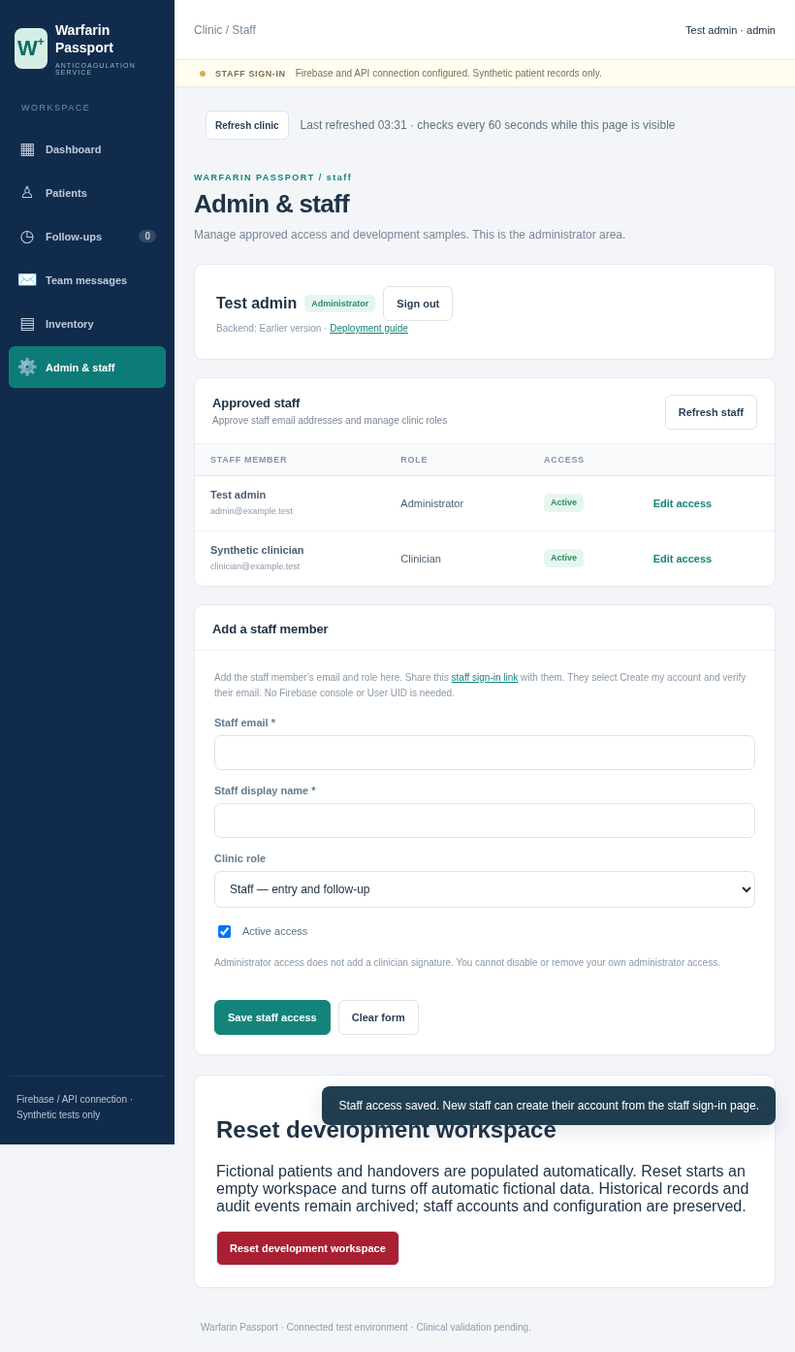
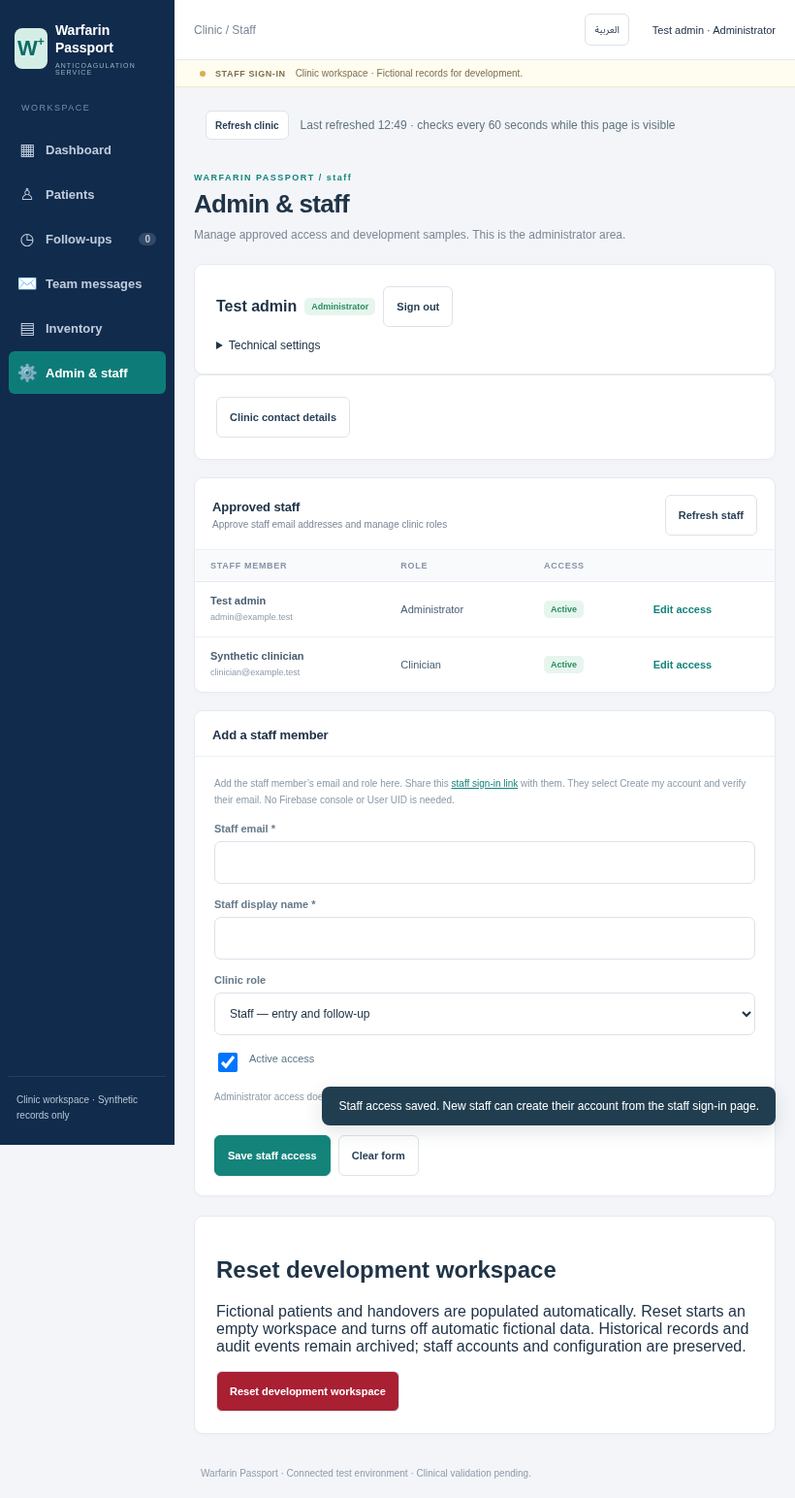
Add standalone login and verified staff access requests with in-app approval

diff --git a/app.js b/app.js
@@ -6,7 +6,7 @@ import {urgentCases,urgentCase} from './urgent-cases.mjs?v=care-5';
 import {additionalPatients,mergeAdditionalPatients} from './additional-cases.mjs?v=care-5';
 import {ttrForPatient,clinicTTR} from './ttr.mjs';
 import {doseReview,UW_SOURCE,ACF_SOURCE} from './dose-review.mjs?v=care-5';
-import {connectionAvailable, connected, createStaffAccount, sendAccountEmail, signIn, signOut, api, patientFromApi} from './api-client.mjs?v=care-5';
+import {connectionAvailable, connected, createStaffAccount, sendAccountEmail, refreshAccess, resendMyVerification, signIn, signOut, api, patientFromApi} from './api-client.mjs?v=care-5';
 import {doseSummary, followupAttempt} from './clinical-utils.mjs';
 import {addDays, todayRiyadh, dateLabel, ageFromDOB, sumDose} from './date-utils.mjs';
 
@@ -141,15 +141,19 @@ function pageFollowups(){const q=worklist();return `${heading('Follow-up worklis
  <section class="card"><div class="table-wrap"><table><thead><tr><th>Patient</th><th>MRN</th><th>INR check</th><th>Call date</th><th>Last contact</th><th>Status</th><th>Action</th></tr></thead><tbody>${q.map(f=>`<tr><td class="strong">${e(f.name)}${riskBadge(f)}</td><td>${e(f.mrn)}</td><td>${dateLabel(f.inrDate)}</td><td>${dateLabel(f.callDate)}</td><td>${e(f.lastContact?.outcome||'None logged')}</td><td>${tag(f.callDate<TODAY?'Overdue':f.callDate===TODAY?'Due today':'Scheduled',f.callDate<TODAY?'overdue':'due')}</td><td><button class="btn sm" data-followup-open="${e(f.mrn)}|${e(f.id)}">Open Patient</button></td></tr>`).join('')}</tbody></table></div>${!q.length?'<div class="empty">No pending follow-ups.</div>':''}</section><div class="warning-box">The 2-day rule is for routine administrative calls only. A clinically urgent INR or bleeding concern requires prompt review according to an approved clinic protocol.</div>`}
 function pageInventory(){return `${heading('Warfarin inventory','Patient-reported tablet stock by strength. Estimates are not physical counts.')}
  <section class="card"><div class="table-wrap"><table><thead><tr><th>Patient</th><th>MRN</th><th>Tablet strength</th><th>Quantity</th><th>Checked</th><th></th></tr></thead><tbody>${patients.flatMap(p=>(p.inventory||[]).map(it=>`<tr><td class="strong">${e(p.name)}</td><td>${e(p.mrn)}</td><td>${e(it.strength)} mg</td><td>${e(it.quantity)} tablets</td><td>${dateLabel(it.date)}</td><td><button class="btn sm" data-inventory-for="${e(p.mrn)}">Update</button></td></tr>`)).join('')}</tbody></table></div></section><div class="warning-box">Patient inventory is separate from any future clinic stock module. Do not assume medication has been taken solely because it was prescribed.</div>`}
-let approvedStaff=[],staffListLoaded=false,staffListError='',staffListBusy=false,staffDraft={uid:'',email:'',displayName:'',role:'subadmin',active:true};
+let staffRequests=[],approvedStaff=[],staffListLoaded=false,staffListError='',staffListBusy=false,staffDraft={uid:'',email:'',displayName:'',role:'subadmin',active:true};
 function roleLabel(role){return {admin:'Administrator',clinician:'Clinician',subadmin:'Staff'}[role]||role;}
-async function loadApprovedStaff(){if(!connected||staff?.role!=='admin'||staffListBusy)return;staffListBusy=true;try{approvedStaff=await api('users.list',{});staffListLoaded=true;staffListError='';}catch(err){staffListError=err.message;}finally{staffListBusy=false;if(view==='staff')render();}}
+async function loadApprovedStaff(){if(!connected||staff?.role!=='admin'||staffListBusy)return;staffListBusy=true;try{const result=await Promise.all([api('users.list',{}),api('staff.requests.list',{})]);approvedStaff=result[0];staffRequests=result[1];staffListLoaded=true;staffListError='';}catch(err){staffListError=err.message;}finally{staffListBusy=false;if(view==='staff')render();}}
+function clinicAccess(){return !!staff&&['admin','clinician','subadmin'].includes(staff.role);}
+function pageAccessStatus(){const pending=staff.role==='pending',verify=staff.role==='verify-email';return `<section class="login-layout"><div class="login-intro"><div class="login-brand"><span class="login-logo">W<sup>+</sup></span><span>Warfarin<br>Passport</span></div><h2>Clinic access, made simple.</h2></div><section class="card login-card"><h1>${pending?'Waiting for administrator approval':verify?'Verify your email':'Contact your administrator'}</h1><p><b>${e(staff.email)}</b></p><p>${pending?'Your email is verified. Your access request is now in the administrator’s staff page. Patient records stay locked until they approve your role.':verify?'Open the verification email, then select Check my access.':'Your clinic access is not active. Contact your administrator; you do not need to create another account.'}</p><p id="access-status" role="status"></p><div class="mini-actions"><button class="btn primary" id="check-access">Check my access</button>${verify?'<button class="btn" id="resend-my-verification">Resend verification email</button>':''}<button class="btn" id="sign-out">Sign out</button></div><div class="login-patient-link"><a href="./portal.html">Patient or caregiver? Open your passport →</a></div></section></section>`;}
+function staffRequestPanel(){return `<section class="card pad"><h2>Staff awaiting approval <span class="count-chip">${staffRequests.length}</span></h2><p>These people verified their email and requested clinic access. Confirm their identity and choose their role here.</p>${staffRequests.map(r=>`<form class="staff-request-form" data-request-id="${e(r.id)}"><b>${e(r.email)}</b><small>Requested ${dateLabel(r.requestedAt.slice(0,10))}</small><div class="form-grid">${field('displayName','Confirm staff name *','','text','required maxlength="120"')}${selectField('role','Clinic role',[['subadmin','Staff'],['clinician','Clinician'],['admin','Administrator']],'subadmin')}</div><label class="checkbox-line"><input type="checkbox" name="confirmIdentity" required> I confirmed this person’s identity and clinic role</label><p class="request-status" role="status"></p><div class="mini-actions"><button class="btn primary" type="submit">Approve access</button><button class="btn" type="button" data-reject-staff="${e(r.id)}">Decline request</button></div></form>`).join('')||'<p>No verified requests waiting. New staff appear here after verifying their email and signing in.</p>'}</section>`;}
+function pageLogin(){return `<section class="login-layout"><div class="login-intro"><div class="login-brand"><span class="login-logo">W<sup>+</sup></span><span>Warfarin<br>Passport</span></div><p class="eyebrow">ANTICOAGULATION SERVICE</p><h2>Your clinic, in one place.</h2><p>Review results, coordinate follow-up and share clear care plans with your patients.</p><div class="login-assurance">Authorized clinic access · Your role controls what you can see</div></div><section class="card login-card"><h1>Staff & administrator sign-in</h1><p class="login-subtitle">Welcome back. Sign in with your clinic account.</p><form id="login-form">${field('email','Staff email','','email','required autocomplete="username"')}${field('password','Password','','password','required autocomplete="current-password"')}<button class="login-show-password" type="button" id="login-show-password" aria-pressed="false">Show password</button><p id="login-error" role="alert" class="warning-box" hidden></p><button class="btn primary login-submit" type="submit">Sign in</button><p class="form-help">Administrators and staff use this same sign-in. Your approved role determines access.</p><div class="login-account-actions"><button class="btn" type="button" id="create-account">Create my account</button><button class="inline-action" type="button" id="reset-password">Reset password</button></div><details class="login-help"><summary>First time here?</summary><p>Create your account with a password of at least 12 characters, verify the email, then sign in to request clinic access. Your administrator approves the request inside this app.</p><button class="inline-action" type="button" id="verify-account">Resend verification email</button></details></form><div class="login-patient-link"><span>Patient or caregiver?</span><a href="./portal.html">Open your patient passport →</a></div><p class="login-development">Development workspace · Fictional records only</p></section></section>`;}
 function pageStaff(){
  if(!connected)return `${heading('Demo account','Demo mode has no administrator login. Use Staff sign-in for the connected database.')}<section class="card pad"><h2>Administrator and staff access</h2><p class="subtext">The same sign-in page is used for everyone. Your approved account role determines your access.</p><a class="btn primary" href="?mode=connected&view=staff">Staff / administrator sign-in</a></section>`;
- if(!staff)return `${heading('Staff & administrator sign-in','Sign in with your clinic account, or create your password after your administrator approves your email.')}<section class="card pad"><form id="login-form"><div class="form-grid">${field('email','Staff email','','email','required autocomplete="username"')}${field('password','Password','','password','required autocomplete="current-password"')}</div><p class="form-help">Administrators use this same login. There is no separate admin password. Access comes from the approved role in the clinic database.</p><p id="login-error" role="alert" class="warning-box" hidden></p><button class="btn primary">Sign in</button><a class="btn" href="./portal.html">Patient / caregiver sign-in</a><div class="mini-actions"><button class="btn" type="button" id="create-account">Create my account</button><button class="btn" type="button" id="verify-account">Resend verification email</button><button class="btn" type="button" id="reset-password">Reset password</button></div><p class="form-help">New staff: enter your approved email and a password of at least 12 characters, select Create my account, verify the email, then sign in. Creating an account alone does not grant clinic access.</p></form></section>`;
+ if(!staff)return pageLogin();
  const identity=`<section class="card pad"><div class="mini-actions"><b>${e(staff.displayName||staff.email)}</b>${tag(roleLabel(staff.role),'good')}<button class="btn" id="sign-out">Sign out</button></div>${staff.role==='admin'?`<details class="deployment-details"><summary>Technical settings</summary><p class="form-help">Backend: ${e(staff.backendRelease||'Earlier version')} · <a href="https://github.com/insaneCoro/Warfarin-Passport/blob/main/docs/AUTOMATED_DEPLOYMENT.md" target="_blank" rel="noopener">Deployment guide</a></p></details>`:''}</section>`;
  if(staff.role!=='admin')return `${heading('My account','You are signed into the connected clinic. Administrators manage staff access.')}${identity}`;
- return `${heading('Admin & staff','Manage approved access and development samples. This is the administrator area.')}${identity}<section class="card pad"><button class="btn" data-care-clinic>Clinic contact details</button></section><div class="admin-layout"><section class="card"><div class="card-header"><div><h2>Approved staff</h2><small>Approve staff email addresses and manage clinic roles</small></div><button class="btn" id="refresh-staff">Refresh staff</button></div>${staffListError?`<p class="warning-box">${e(staffListError)}</p>`:''}${staffListLoaded?`<div class="table-wrap"><table><thead><tr><th>Staff member</th><th>Role</th><th>Access</th><th></th></tr></thead><tbody>${approvedStaff.map(u=>`<tr><td><b>${e(u.displayName||u.email)}</b><small>${e(u.email)}</small>${String(u.uid).startsWith('invite:')?'<small>Awaiting verified account</small>':''}</td><td>${e(roleLabel(u.role))}</td><td>${tag(String(u.active).toLowerCase()==='true'?'Active':'Disabled',String(u.active).toLowerCase()==='true'?'good':'neutral')}</td><td><button class="inline-action" data-edit-staff="${e(u.uid)}">Edit access</button></td></tr>`).join('')}</tbody></table></div>`:'<div class="empty">Loading approved staff…</div>'}</section><section class="card"><div class="card-header"><h2>${staffDraft.uid?'Approve / update staff access':'Add a staff member'}</h2></div><form class="composer-body" id="staff-form"><p class="form-help">Add the staff member’s email and role here. Share this <a href="?mode=connected&view=staff">staff sign-in link</a> with them. They select Create my account and verify their email. No Firebase console or User UID is needed.</p><input name="uid" type="hidden" value="${e(staffDraft.uid)}">${field('email','Staff email *',staffDraft.email,'email','required')}${field('displayName','Staff display name *',staffDraft.displayName,'text','required maxlength="120"')}${selectField('role','Clinic role',[['subadmin','Staff — entry and follow-up'],['clinician','Clinician — clinical approval'],['admin','Administrator — accounts/settings']],staffDraft.role)}<label class="checkbox-line"><input name="active" type="checkbox" ${staffDraft.active?'checked':''}> Active access</label><p class="form-help">Administrator access does not add a clinician signature. You cannot disable or remove your own administrator access.</p><p id="staff-result" role="status" aria-live="polite"></p><div class="mini-actions"><button class="btn primary" type="submit">Save staff access</button><button class="btn" type="button" id="new-staff">Clear form</button></div></form></section></div><section class="card pad reset-card"><h2>Reset development workspace</h2><p>Fictional patients and handovers are populated automatically. Reset starts an empty workspace and turns off automatic fictional data. Historical records and audit events remain archived; staff accounts and configuration are preserved.</p>${workspaceError?`<p class="warning-box" role="alert">${e(workspaceError)}</p><button class="btn" id="retry-workspace">Retry preparation</button>`:''}${workspaceBusy?'<p role="status">Preparing fictional workspace…</p>':''}<button class="btn danger" id="reset-workspace" ${staff.workspaceMode==='empty'?'disabled':''}>Reset development workspace</button></section>`;
+ return `${heading('Admin & staff','Manage approved access and development samples. This is the administrator area.')}${identity}${staffRequestPanel()}<section class="card pad"><button class="btn" data-care-clinic>Clinic contact details</button></section><div class="admin-layout"><section class="card"><div class="card-header"><div><h2>Approved staff</h2><small>Approve staff email addresses and manage clinic roles</small></div><button class="btn" id="refresh-staff">Refresh staff</button></div>${staffListError?`<p class="warning-box">${e(staffListError)}</p>`:''}${staffListLoaded?`<div class="table-wrap"><table><thead><tr><th>Staff member</th><th>Role</th><th>Access</th><th></th></tr></thead><tbody>${approvedStaff.map(u=>`<tr><td><b>${e(u.displayName||u.email)}</b><small>${e(u.email)}</small>${String(u.uid).startsWith('invite:')?'<small>Awaiting verified account</small>':''}</td><td>${e(roleLabel(u.role))}</td><td>${tag(String(u.active).toLowerCase()==='true'?'Active':'Disabled',String(u.active).toLowerCase()==='true'?'good':'neutral')}</td><td><button class="inline-action" data-edit-staff="${e(u.uid)}">Edit access</button></td></tr>`).join('')}</tbody></table></div>`:'<div class="empty">Loading approved staff…</div>'}</section><section class="card"><div class="card-header"><h2>${staffDraft.uid?'Approve / update staff access':'Add a staff member'}</h2></div><form class="composer-body" id="staff-form"><p class="form-help">Add the staff member’s email and role here. Share this <a href="?mode=connected&view=staff">staff sign-in link</a> with them. They select Create my account and verify their email. No Firebase console or User UID is needed.</p><input name="uid" type="hidden" value="${e(staffDraft.uid)}">${field('email','Staff email *',staffDraft.email,'email','required')}${field('displayName','Staff display name *',staffDraft.displayName,'text','required maxlength="120"')}${selectField('role','Clinic role',[['subadmin','Staff — entry and follow-up'],['clinician','Clinician — clinical approval'],['admin','Administrator — accounts/settings']],staffDraft.role)}<label class="checkbox-line"><input name="active" type="checkbox" ${staffDraft.active?'checked':''}> Active access</label><p class="form-help">Administrator access does not add a clinician signature. You cannot disable or remove your own administrator access.</p><p id="staff-result" role="status" aria-live="polite"></p><div class="mini-actions"><button class="btn primary" type="submit">Save staff access</button><button class="btn" type="button" id="new-staff">Clear form</button></div></form></section></div><section class="card pad reset-card"><h2>Reset development workspace</h2><p>Fictional patients and handovers are populated automatically. Reset starts an empty workspace and turns off automatic fictional data. Historical records and audit events remain archived; staff accounts and configuration are preserved.</p>${workspaceError?`<p class="warning-box" role="alert">${e(workspaceError)}</p><button class="btn" id="retry-workspace">Retry preparation</button>`:''}${workspaceBusy?'<p role="status">Preparing fictional workspace…</p>':''}<button class="btn danger" id="reset-workspace" ${staff.workspaceMode==='empty'?'disabled':''}>Reset development workspace</button></section>`;
 }
 async function saveStaffAccess(form){
  if(staff?.role!=='admin')return;
@@ -157,7 +161,7 @@ async function saveStaffAccess(form){
  try{await api('users.upsert',{uid:String(fd.get('uid')).trim(),email:String(fd.get('email')).trim(),displayName:String(fd.get('displayName')).trim(),role:fd.get('role'),active:fd.has('active')});staffDraft={uid:'',email:'',displayName:'',role:'subadmin',active:true};await loadApprovedStaff();toast('Staff access saved. New staff can create their account from the staff sign-in page.');}catch(err){status.textContent=err.message;button.disabled=false;}
 }
 
-function render(){let urgentRoot=document.querySelector('#urgent-alerts');if(!urgentRoot){urgentRoot=document.createElement('section');urgentRoot.id='urgent-alerts';screen.before(urgentRoot);}urgentRoot.innerHTML=urgentAlertMarkup();const staffNav=document.querySelector('[data-nav=staff]');staffNav.innerHTML=`<span class="nav-ico">⚙</span>${connected&&staff?.role==='admin'?'Admin & staff':connected&&!staff?'Staff sign-in':'Staff & settings'}`;if(connected)document.querySelector('.user-pill').textContent=staff?`${staff.displayName||staff.email} · ${uiText(roleLabel(staff.role))}`:'Staff sign-in required';document.querySelector('#today-label').textContent=dateLabel(TODAY);document.querySelector('#nav-followups').textContent=worklist().filter(f=>f.callDate<=TODAY).length;nav.querySelectorAll('[data-nav]').forEach(b=>b.classList.toggle('active',b.dataset.nav===(view==='passport'?'patients':view)));document.querySelector('#breadcrumb').textContent=`Clinic / ${view==='passport'?'Patient passport':view[0].toUpperCase()+view.slice(1)}`;screen.innerHTML=({dashboard:pageDashboard,patients:pagePatients,passport:pagePassport,followups:pageFollowups,inventory:pageInventory,staff:pageStaff,messages:pageMessages}[view]||pageDashboard)()}
+function render(){const locked=connected&&!clinicAccess();document.body.classList.toggle('auth-screen',locked);document.querySelector('.sidebar').hidden=locked;if(locked){view='staff';const alerts=document.querySelector('#urgent-alerts');if(alerts)alerts.innerHTML='';modalRoot.innerHTML='';screen.innerHTML=staff?pageAccessStatus():pageLogin();return;}let urgentRoot=document.querySelector('#urgent-alerts');if(!urgentRoot){urgentRoot=document.createElement('section');urgentRoot.id='urgent-alerts';screen.before(urgentRoot);}urgentRoot.innerHTML=urgentAlertMarkup();const staffNav=document.querySelector('[data-nav=staff]');staffNav.innerHTML=`<span class="nav-ico">⚙</span>${connected&&staff?.role==='admin'?'Admin & staff':connected&&!staff?'Staff sign-in':'Staff & settings'}`;if(connected)document.querySelector('.user-pill').textContent=staff?`${staff.displayName||staff.email} · ${uiText(roleLabel(staff.role))}`:'Staff sign-in required';document.querySelector('#today-label').textContent=dateLabel(TODAY);document.querySelector('#nav-followups').textContent=worklist().filter(f=>f.callDate<=TODAY).length;nav.querySelectorAll('[data-nav]').forEach(b=>b.classList.toggle('active',b.dataset.nav===(view==='passport'?'patients':view)));document.querySelector('#breadcrumb').textContent=`Clinic / ${view==='passport'?'Patient passport':view[0].toUpperCase()+view.slice(1)}`;screen.innerHTML=({dashboard:pageDashboard,patients:pagePatients,passport:pagePassport,followups:pageFollowups,inventory:pageInventory,staff:pageStaff,messages:pageMessages}[view]||pageDashboard)()}
 function field(name,label,value='',type='text',attrs=''){return `<div class="field"><label for="f-${name}">${e(label)}</label><input id="f-${name}" name="${name}" type="${type}" value="${e(value)}" ${attrs}></div>`}
 function textArea(name,label,value=''){return `<div class="field span-2"><label for="f-${name}">${e(label)}</label><textarea id="f-${name}" name="${name}" rows="3">${e(value)}</textarea></div>`}
 function modal(title,form,submitLabel='Save'){modalRoot.innerHTML=`<div class="modal-overlay"><div class="modal" role="dialog" aria-modal="true" aria-label="${e(title)}"><div class="modal-header"><h2>${e(title)}</h2><button class="modal-close" data-dismiss aria-label="Close">×</button></div><form id="modal-form"><div class="modal-body">${form}<p id="modal-save-error" role="alert"></p></div><div class="modal-actions"><button type="button" class="btn" data-dismiss>Cancel</button><button class="btn primary" type="submit">${e(submitLabel)}</button></div></form></div></div>`}
@@ -183,8 +187,8 @@ async function submitForm(fd){if(modalType==='reset-workspace'){if(!connected||s
  }else if(modalType==='inventory'){const p=getPatient(),strength=Number(fd.get('strength')),quantity=Number(fd.get('quantity'));if(!(strength>0&&quantity>=0&&Number.isInteger(quantity)))throw Error('Enter a valid strength and whole-tablet quantity.');const old=p.inventory.find(x=>x.strength===strength);if(old){old.quantity=quantity;old.date=fd.get('confirmedDate')}else p.inventory.push({strength,quantity,date:fd.get('confirmedDate')});
  }else if(modalType==='note'){const note=String(fd.get('note')||'').trim();if(!note)throw Error('Note cannot be blank.');getPatient().notes.push({id:String(Date.now()),date:fd.get('noteDate'),text:note,supersedes:fd.get('supersedes')||null,by:'Unverified demo staff'});}
  save();modalRoot.innerHTML='';render();toast('Saved in synthetic browser demo only.')}
-document.addEventListener('click',ev=>{const b=ev.target.closest('button,[data-open]');if(!b)return;if(b.id==='interface-language'){toggleInterfaceLanguage();return;}if(handleCareClick(b,careContext()))return;if(['create-account','verify-account','reset-password'].includes(b.id)){handleAccountAction(b);return;}if(b.id==='refresh-clinic'){refreshClinic();return;}if(b.id==='refresh-staff'){loadApprovedStaff();return;}if(b.id==='new-staff'){staffDraft={uid:'',email:'',displayName:'',role:'subadmin',active:true};render();return;}if(b.dataset.editStaff){const u=approvedStaff.find(u=>u.uid===b.dataset.editStaff);staffDraft={...u,active:String(u.active).toLowerCase()==='true'};render();document.querySelector('#staff-form').scrollIntoView({block:'start',behavior:'smooth'});return;}if(b.id==='refresh-messages'){refreshTeamMessages();return;}if(b.id==='older-messages'){refreshTeamMessages(true);return;}if(b.dataset.reply){const m=teamMessages.find(m=>m.id===b.dataset.reply);messageDraft.replyTo=m.id;messageDraft.patientId=m.patientId||'';render();document.querySelector('#message-body').focus();return;}if(b.id==='cancel-reply'){messageDraft.replyTo='';messageDraft.requestId=null;render();return;}if(b.dataset.filter){dashboardFilter=b.dataset.filter;render();return;}if(b.id==='reset-workspace'){openModal('reset-workspace');return;}if(b.id==='retry-workspace'){prepareWorkspace().then(refreshRemote).then(render);return;}if(b.dataset.nav){view=b.dataset.nav;selectedMRN=null;render();if(view==='messages')refreshTeamMessages();if(view==='staff'&&staff?.role==='admin')loadApprovedStaff()}else if(b.dataset.navto){view=b.dataset.navto;render();if(view==='messages')refreshTeamMessages();if(view==='staff'&&staff?.role==='admin')loadApprovedStaff()}else if(b.dataset.open){openPatient(b.dataset.open)}else if(b.dataset.modal){openModal(b.dataset.modal)}else if(b.hasAttribute('data-dismiss')){modalRoot.innerHTML=''}else if(b.dataset.inventoryFor){selectedMRN=b.dataset.inventoryFor;openModal('inventory')}else if(b.dataset.followupOpen){const [mrn]=b.dataset.followupOpen.split('|');openPatient(mrn)}else if(b.id==='approve-decision'){api('decisions.approve',{encounterId:b.dataset.encounter}).then(refreshRemote).then(render).catch(err=>toast(err.message));}else if(b.id==='sign-out'){signOut();modalRoot.innerHTML='';staff=null;patients=[];selectedMRN=null;view='staff';teamMessages=[];teamLoaded=false;messageDraft={body:'',patientId:'',replyTo:'',requestId:null};render();}});
-document.addEventListener('submit',async ev=>{if(ev.target.id==='care-form'){ev.preventDefault();await submitCare(ev.target,careContext());return;}if(ev.target.id==='staff-form'){ev.preventDefault();await saveStaffAccess(ev.target);return;}if(ev.target.id==='message-form'){ev.preventDefault();await sendTeamMessage(ev.target);return;}if(ev.target.id==='login-form'){ev.preventDefault();const submit=ev.target.querySelector('button');submit.disabled=true;const message=ev.target.querySelector('#login-error');message.hidden=true;try{const fd=new FormData(ev.target);staff=await signIn(fd.get('email'),fd.get('password'));await prepareWorkspace();await refreshRemote();view=new URLSearchParams(location.search).get('view')==='staff'?'staff':'dashboard';render();if(view==='staff'&&staff.role==='admin')loadApprovedStaff();}catch(err){if(staff){remoteRefreshError=err.message;view='dashboard';render();return;}staff=null;patients=[];signOut();message.textContent=err.message;message.hidden=false;submit.disabled=false;}return;}if(ev.target.id==='modal-form'){ev.preventDefault();try{const button=ev.target.querySelector('[type=submit]');button.disabled=true;await submitForm(new FormData(ev.target))}catch(err){toast(err.message);const status=ev.target.querySelector('#modal-save-error');if(status)status.textContent=err.message;ev.target.querySelector('[type=submit]').disabled=false;}}});
+document.addEventListener('click',ev=>{const b=ev.target.closest('button,[data-open]');if(!b)return;if(b.id==='check-access'){b.disabled=true;refreshAccess().then(async user=>{staff=user;if(clinicAccess()){await prepareWorkspace();await refreshRemote();view='dashboard';}render();}).catch(err=>{const status=document.querySelector('#access-status');if(status)status.textContent=err.message;b.disabled=false;});return;}if(b.id==='resend-my-verification'){b.disabled=true;resendMyVerification().then(()=>{document.querySelector('#access-status').textContent='Verification email sent. Open it, then select Check my access.';}).catch(err=>toast(err.message)).finally(()=>b.disabled=false);return;}if(b.dataset.rejectStaff){b.disabled=true;api('staff.requests.review',{id:b.dataset.rejectStaff,decision:'reject'}).then(loadApprovedStaff).catch(err=>toast(err.message)).finally(()=>b.disabled=false);return;}if(b.id==='login-show-password'){const input=document.querySelector('#login-form [name=password]'),show=input.type==='password';input.type=show?'text':'password';b.textContent=show?'Hide password':'Show password';b.setAttribute('aria-pressed',String(show));return;}if(b.id==='interface-language'){toggleInterfaceLanguage();return;}if(handleCareClick(b,careContext()))return;if(['create-account','verify-account','reset-password'].includes(b.id)){handleAccountAction(b);return;}if(b.id==='refresh-clinic'){refreshClinic();return;}if(b.id==='refresh-staff'){loadApprovedStaff();return;}if(b.id==='new-staff'){staffDraft={uid:'',email:'',displayName:'',role:'subadmin',active:true};render();return;}if(b.dataset.editStaff){const u=approvedStaff.find(u=>u.uid===b.dataset.editStaff);staffDraft={...u,active:String(u.active).toLowerCase()==='true'};render();document.querySelector('#staff-form').scrollIntoView({block:'start',behavior:'smooth'});return;}if(b.id==='refresh-messages'){refreshTeamMessages();return;}if(b.id==='older-messages'){refreshTeamMessages(true);return;}if(b.dataset.reply){const m=teamMessages.find(m=>m.id===b.dataset.reply);messageDraft.replyTo=m.id;messageDraft.patientId=m.patientId||'';render();document.querySelector('#message-body').focus();return;}if(b.id==='cancel-reply'){messageDraft.replyTo='';messageDraft.requestId=null;render();return;}if(b.dataset.filter){dashboardFilter=b.dataset.filter;render();return;}if(b.id==='reset-workspace'){openModal('reset-workspace');return;}if(b.id==='retry-workspace'){prepareWorkspace().then(refreshRemote).then(render);return;}if(b.dataset.nav){view=b.dataset.nav;selectedMRN=null;render();if(view==='messages')refreshTeamMessages();if(view==='staff'&&staff?.role==='admin')loadApprovedStaff()}else if(b.dataset.navto){view=b.dataset.navto;render();if(view==='messages')refreshTeamMessages();if(view==='staff'&&staff?.role==='admin')loadApprovedStaff()}else if(b.dataset.open){openPatient(b.dataset.open)}else if(b.dataset.modal){openModal(b.dataset.modal)}else if(b.hasAttribute('data-dismiss')){modalRoot.innerHTML=''}else if(b.dataset.inventoryFor){selectedMRN=b.dataset.inventoryFor;openModal('inventory')}else if(b.dataset.followupOpen){const [mrn]=b.dataset.followupOpen.split('|');openPatient(mrn)}else if(b.id==='approve-decision'){api('decisions.approve',{encounterId:b.dataset.encounter}).then(refreshRemote).then(render).catch(err=>toast(err.message));}else if(b.id==='sign-out'){signOut();modalRoot.innerHTML='';staff=null;patients=[];staffRequests=[];approvedStaff=[];staffListLoaded=false;staffListError='';staffDraft={uid:'',email:'',displayName:'',role:'subadmin',active:true};search='';dashboardSearch='';dashboardFilter='all';remoteRefreshedAt='';remoteRefreshError='';selectedMRN=null;view='staff';teamMessages=[];teamLoaded=false;messageDraft={body:'',patientId:'',replyTo:'',requestId:null};render();}});
+document.addEventListener('submit',async ev=>{if(ev.target.matches('.staff-request-form')){ev.preventDefault();const form=ev.target,fd=new FormData(form),button=form.querySelector('[type=submit]');button.disabled=true;try{await api('staff.requests.review',{id:form.dataset.requestId,decision:'approve',displayName:fd.get('displayName'),role:fd.get('role'),confirmIdentity:fd.has('confirmIdentity')});await loadApprovedStaff();toast('Clinic access approved. They can select Check my access or sign in again.');}catch(err){form.querySelector('.request-status').textContent=err.message;button.disabled=false;}return;}if(ev.target.id==='care-form'){ev.preventDefault();await submitCare(ev.target,careContext());return;}if(ev.target.id==='staff-form'){ev.preventDefault();await saveStaffAccess(ev.target);return;}if(ev.target.id==='message-form'){ev.preventDefault();await sendTeamMessage(ev.target);return;}if(ev.target.id==='login-form'){ev.preventDefault();const submit=ev.target.querySelector('[type=submit]');submit.disabled=true;const message=ev.target.querySelector('#login-error');message.hidden=true;try{const fd=new FormData(ev.target);staff=await signIn(fd.get('email'),fd.get('password'));if(!clinicAccess()){render();return;}await prepareWorkspace();await refreshRemote();view=new URLSearchParams(location.search).get('view')==='staff'?'staff':'dashboard';render();if(view==='staff'&&staff.role==='admin')loadApprovedStaff();}catch(err){if(staff){remoteRefreshError=err.message;view='dashboard';render();return;}staff=null;patients=[];signOut();message.textContent=err.message;message.hidden=false;submit.disabled=false;}return;}if(ev.target.id==='modal-form'){ev.preventDefault();try{const button=ev.target.querySelector('[type=submit]');button.disabled=true;await submitForm(new FormData(ev.target))}catch(err){toast(err.message);const status=ev.target.querySelector('#modal-save-error');if(status)status.textContent=err.message;ev.target.querySelector('[type=submit]').disabled=false;}}});
 document.addEventListener('input',ev=>{if(ev.target.closest('#care-form')){if(ev.target.name==='phone'){const check=ev.target.form.elements.phoneVerified;if(check)check.checked=false;}if(ev.target.name==='confirmedTabletStrength'){const check=ev.target.form.elements.tabletStrengthConfirmed;if(check)check.checked=false;}return;}if(ev.target.name==='riskLevel'){updateRiskFields();return;}if(ev.target.closest('#staff-form')){staffDraft[ev.target.name]=ev.target.type==='checkbox'?ev.target.checked:ev.target.value;return;}if(ev.target.id==='message-body'){messageDraft.body=ev.target.value;return;}if(ev.target.id==='message-patient'){messageDraft.patientId=ev.target.value;return;}if(ev.target.id==='patient-search'){const pos=ev.target.selectionStart;search=ev.target.value;const term=search.toLowerCase();const found=patients.filter(p=>[p.mrn,p.name,p.phone].some(s=>String(s).toLowerCase().includes(term)));screen.querySelector('.card').innerHTML=tablePatients(found);ev.target.setSelectionRange(pos,pos)}else if(ev.target.id==='dashboard-search'){dashboardSearch=ev.target.value;document.querySelector('#dashboard-registry').innerHTML=tablePatients(filteredDashboardPatients());}else if(document.querySelector('#reference-output')){updateDoseReview();if(ev.target.name==='nextInrDate'){try{document.querySelector('[name=callPreview]').value=dateLabel(addDays(ev.target.value,2))}catch{}}}});
 async function submitRemote(fd){
  const p=getPatient();let action,params;
@@ -223,10 +227,10 @@ function urgentAlertMarkup(){
  return `${refresh}${reportMarkup}<div class="urgent-banner" role="region" aria-label="Urgent clinical reviews"><h2>⚠ ${cases.length} urgent clinical review${cases.length===1?'':'s'} — action required</h2><p>Review symptoms and arrange clinician assessment. Emergency symptoms require emergency care; do not wait for routine recall. Alerts reflect the latest recorded INR and remain until a newer result changes the risk.</p>${cases.map(c=>`<div class="urgent-row"><div><b>${e(c.name)} · INR ${e(c.inr)}</b><span>${e(c.reason)} · ${dateLabel(c.date)}${c.stale?' · Historical result: confirm current status promptly':''}</span></div><button class="btn" data-open="${e(c.mrn)}">Open patient</button></div>`).join('')}</div>`;
 }
 
-async function refreshClinic(){if(!connected||!staff||remoteRefreshBusy||workspaceBusy||modalRoot.innerHTML)return;remoteRefreshBusy=true;try{await refreshRemote();}catch(err){remoteRefreshError=err.message;}finally{remoteRefreshBusy=false;render();}}
+async function refreshClinic(){if(!connected||!clinicAccess()||remoteRefreshBusy||workspaceBusy||modalRoot.innerHTML)return;remoteRefreshBusy=true;try{await refreshRemote();}catch(err){remoteRefreshError=err.message;}finally{remoteRefreshBusy=false;render();}}
 setInterval(()=>{if(document.visibilityState==='visible'&&view!=='staff'&&view!=='messages')refreshClinic();},60000);
 
-function careContext(){return {connected,staff,patients,patient:getPatient,api,modal,openFollowup:()=>{openModal('followup');const p=getPatient(),latest=careStatus(p).latest,f=p.followups.find(f=>f.encounterId===latest?.id&&f.status!=='Completed');if(f){document.querySelector('[name=followupId]').value=f.id;const link=document.querySelector('[name=encounterId]');if(link)link.value=latest.id;}},refresh:refreshRemote,close:()=>{modalRoot.innerHTML='';},render,toast,filter:key=>{dashboardFilter=key;view='dashboard';render();document.querySelector('#dashboard-registry')?.scrollIntoView({block:'start',behavior:'smooth'});},open:id=>{modalRoot.innerHTML='';const p=patients.find(p=>(connected?p.id:p.mrn)===id);if(p)openPatient(p.mrn);}};}
+function careContext(){return {connected,staff,patients,scopePatient:getPatient(),patient:getPatient,api,modal,openFollowup:()=>{openModal('followup');const p=getPatient(),latest=careStatus(p).latest,f=p.followups.find(f=>f.encounterId===latest?.id&&f.status!=='Completed');if(f){document.querySelector('[name=followupId]').value=f.id;const link=document.querySelector('[name=encounterId]');if(link)link.value=latest.id;}},refresh:refreshRemote,close:()=>{modalRoot.innerHTML='';},render,toast,filter:key=>{dashboardFilter=key;view='dashboard';render();document.querySelector('#dashboard-registry')?.scrollIntoView({block:'start',behavior:'smooth'});},open:id=>{modalRoot.innerHTML='';const p=patients.find(p=>(connected?p.id:p.mrn)===id);if(p)openPatient(p.mrn);}};}
 
 document.addEventListener('visibilitychange',()=>{if(document.visibilityState==='visible'&&view!=='staff'&&view!=='messages')refreshClinic();});
 

diff --git a/care.css b/care.css
@@ -6,3 +6,10 @@ html[dir=rtl] .nav-item{text-align:right}html[dir=rtl] .field{text-align:right}h
 .inr-step[hidden],.modal-actions button[hidden]{display:none!important}.inr-step{grid-column:1/-1;width:100%}.inr-progress{padding:14px 0;margin-bottom:15px;border-bottom:2px solid #168477;font-weight:750;color:#155e56}.wizard-status,#modal-save-error{color:#a12334;line-height:1.7}.reported-results{background:#fff5e9;border-color:#bd6926;color:#783e14}
 .portal-development{max-width:920px;margin:0 auto 15px;padding:12px 20px;background:#fff6df;border-radius:8px;font-size:13px;color:#7c5e27;text-align:center}
 .communication-history{margin-top:18px}.communication-history>summary{cursor:pointer;font-weight:650;color:#21675e}
+.care-patient-identity{display:flex;justify-content:space-between;gap:12px;background:#eef7f4;padding:12px 15px;border-radius:8px;margin-bottom:18px}.care-patient-identity span{direction:ltr;color:#526d70}
+/* The signed-out screen is a separate visual state: no workspace navigation. */
+body.auth-screen{background:#edf3f3}body.auth-screen .app-layout{display:block;min-height:100vh}body.auth-screen .sidebar,body.auth-screen .demo-banner,body.auth-screen #urgent-alerts,body.auth-screen .breadcrumb,body.auth-screen .user-pill,body.auth-screen #today-label,body.auth-screen #menu-button,body.auth-screen .footnote{display:none!important}body.auth-screen .main-shell{min-height:100vh;background:radial-gradient(ellipse at 8% 12%,#d5eae5 0,transparent 55%)}body.auth-screen .topbar{background:transparent;border:0;box-shadow:none;justify-content:flex-end;max-width:none;padding:20px 32px;height:auto}body.auth-screen .screen{padding:25px 28px 65px}.login-layout{display:grid;grid-template-columns:minmax(0,1fr) minmax(0,1.05fr);gap:65px;align-items:center;max-width:1040px;margin:35px auto}.login-intro{max-width:420px;padding:25px 10px}.login-brand{display:flex;align-items:center;gap:15px;font-size:27px;font-weight:800;color:#153d47;line-height:1.15;margin-bottom:32px}.login-logo{background:#0e766c;color:#fff;border-radius:15px;padding:20px 12px;font-size:30px;letter-spacing:-2px}.login-logo sup{font-size:18px;vertical-align:super}.login-intro .eyebrow{font-size:11px;letter-spacing:2px}.login-intro h2{font-size:34px;line-height:1.25;margin:16px 0;color:#193c49}.login-intro>p:not(.eyebrow){font-size:18px;line-height:1.8;color:#58747b}.login-assurance{border-inline-start:3px solid #24897a;padding:12px 16px;margin-top:30px;color:#3f676b;line-height:1.7;font-size:13px}.login-card{padding:36px;border:1px solid #dae5e5;box-shadow:0 14px 45px #123f4910;border-radius:18px}.login-card h1{font-size:25px;line-height:1.35;margin:0 0 10px;color:#1e3b48}.login-subtitle{font-size:15px;color:#647a83;margin:0 0 24px}.login-card .field{margin:17px 0}.login-card .field input{width:100%;font-size:16px;padding:13px;min-height:48px}.login-card .login-submit{display:block;width:100%;margin-top:18px;font-size:16px;min-height:49px}.login-show-password{border:0;padding:0;background:none;min-height:30px;color:#246d68;font-size:12px;text-decoration:underline}.login-account-actions{display:flex;justify-content:space-between;align-items:center;gap:12px;margin-top:22px}.login-help{margin:22px 0 0;font-size:13px;line-height:1.8}.login-help summary{color:#36666c;cursor:pointer}.login-patient-link{border-top:1px solid #e0e9e8;margin-top:26px;padding-top:20px;display:flex;flex-direction:column;gap:7px;font-size:13px;color:#6a7d86}.login-patient-link a{font-weight:650}.login-development{font-size:11px;color:#7a8483;margin:22px 0 0;text-align:center}.login-card .form-help{font-size:12px;line-height:1.7;margin-top:15px}.login-card .warning-box{font-size:13px;line-height:1.7}
+@media(max-width:850px){.login-layout{gap:30px;margin:12px auto;grid-template-columns:minmax(0,.85fr) minmax(0,1.15fr)}.login-card{padding:26px}.login-intro h2{font-size:29px}.login-intro>p:not(.eyebrow){font-size:16px}.login-brand{font-size:24px}.login-card h1{font-size:23px}}
+@media(max-width:650px){body.auth-screen .screen{padding:8px 18px 35px}body.auth-screen .topbar{padding:15px 18px}.login-layout{grid-template-columns:1fr;gap:10px;max-width:470px;margin:0 auto}.login-intro{padding:0 10px;max-width:none}.login-brand{font-size:23px;margin:0 0 18px;justify-content:center}.login-logo{padding:13px 9px;font-size:26px}.login-intro h2,.login-intro>p,.login-assurance{display:none}.login-card{padding:25px 22px}.login-card h1{font-size:23px}.login-account-actions{align-items:stretch;flex-direction:column}.login-account-actions button{min-height:44px}}
+
+.staff-request-form{padding:18px 0;border-top:1px solid #dbe5e6}.staff-request-form>small{display:block;margin:8px 0 14px;color:#617881}.staff-request-form .request-status{color:#a12334}

diff --git a/index.html b/index.html
@@ -9,7 +9,7 @@
   <link rel="stylesheet" href="./styles.css?v=care-5" />
   <link rel="stylesheet" href="./care.css?v=care-5" />
 </head>
-<body>
+<body class="auth-screen">
   <div id="app" class="app-layout">
     <aside class="sidebar">
       <div class="brand"><div class="brand-mark">W<span>+</span></div><div><strong>Warfarin<br>Passport</strong><small>ANTICOAGULATION SERVICE</small></div></div>

diff --git a/docs/USER_GUIDE.md b/docs/USER_GUIDE.md
@@ -4,7 +4,7 @@ This development release uses fictional records only. The clinic and patient pag
 
 ## Staff: the short workflow
 
-1. Sign in at the main website. **What needs doing today?** shows INR tests due, results waiting for review, patients waiting to be informed, and patient requests. Urgent clinical results appear above these tasks. Patient-reported concerning values have a separate **unverified** warning.
+1. The main website opens a standalone staff/administrator login screen. Clinic navigation appears only after sign-in; logging out clears the patient view and returns to that screen. Sign in with your approved clinic account. **What needs doing today?** shows INR tests due, results waiting for review, patients waiting to be informed, and patient requests. Urgent clinical results appear above these tasks. Patient-reported concerning values have a separate **unverified** warning.
 2. Open a patient. The **Next steps** panel shows progress. The **Current clinician-approved care plan** is separate from conditional reference suggestions and historical regimens.
 3. **Enter a new INR** opens three steps: result/safety checks, dosing decision, and instructions/next test. Nothing from a reference is automatically prescribed. Staff choose the actual daily schedule and document the reason. Daily doses must equal the weekly total.
 4. **Save draft care plan** stores the entry without a clinician signature. Staff can **Request clinician review**, which posts an attributed review request to the clinic team. Only an authenticated clinician can explicitly approve the saved plan. Administrator status alone cannot approve a clinical decision.
@@ -43,3 +43,8 @@ Large touch targets and responsive layouts support iPad, phone and Windows. The 
 Normal staff login skips completed fictional initialization. Read requests can recover from temporary connection errors and authentication tokens renew in memory. Open forms remain intact on tab return; uncertain writes are not blindly retried. If iPadOS fully discards a page, sign in again. A full page discard can also lose unsaved, in-memory form edits.
 
 New patient-reported INR values must be checked before a routine care-plan draft is sent. Concerning readings appear as unverified triage alerts; contact/verify promptly rather than waiting for a routine reminder. Patient portal submissions contain the measured value, date and PHC laboratory, not uploaded image/PDF attachments.
+
+
+## New staff who already verified their email
+
+Ask them to sign in again on the new main login page. A verified person without clinic access gets **Waiting for administrator approval**, not a patient workspace. Their request appears under **Admin & staff → Staff awaiting approval**. Confirm their identity, enter their name, choose their role and approve. They select **Check my access** to enter; no account recreation or Firebase-console work is needed. Existing administrators can also invite staff directly by email. Email verification alone never grants clinical access. Declined/disabled accounts cannot approve themselves.
